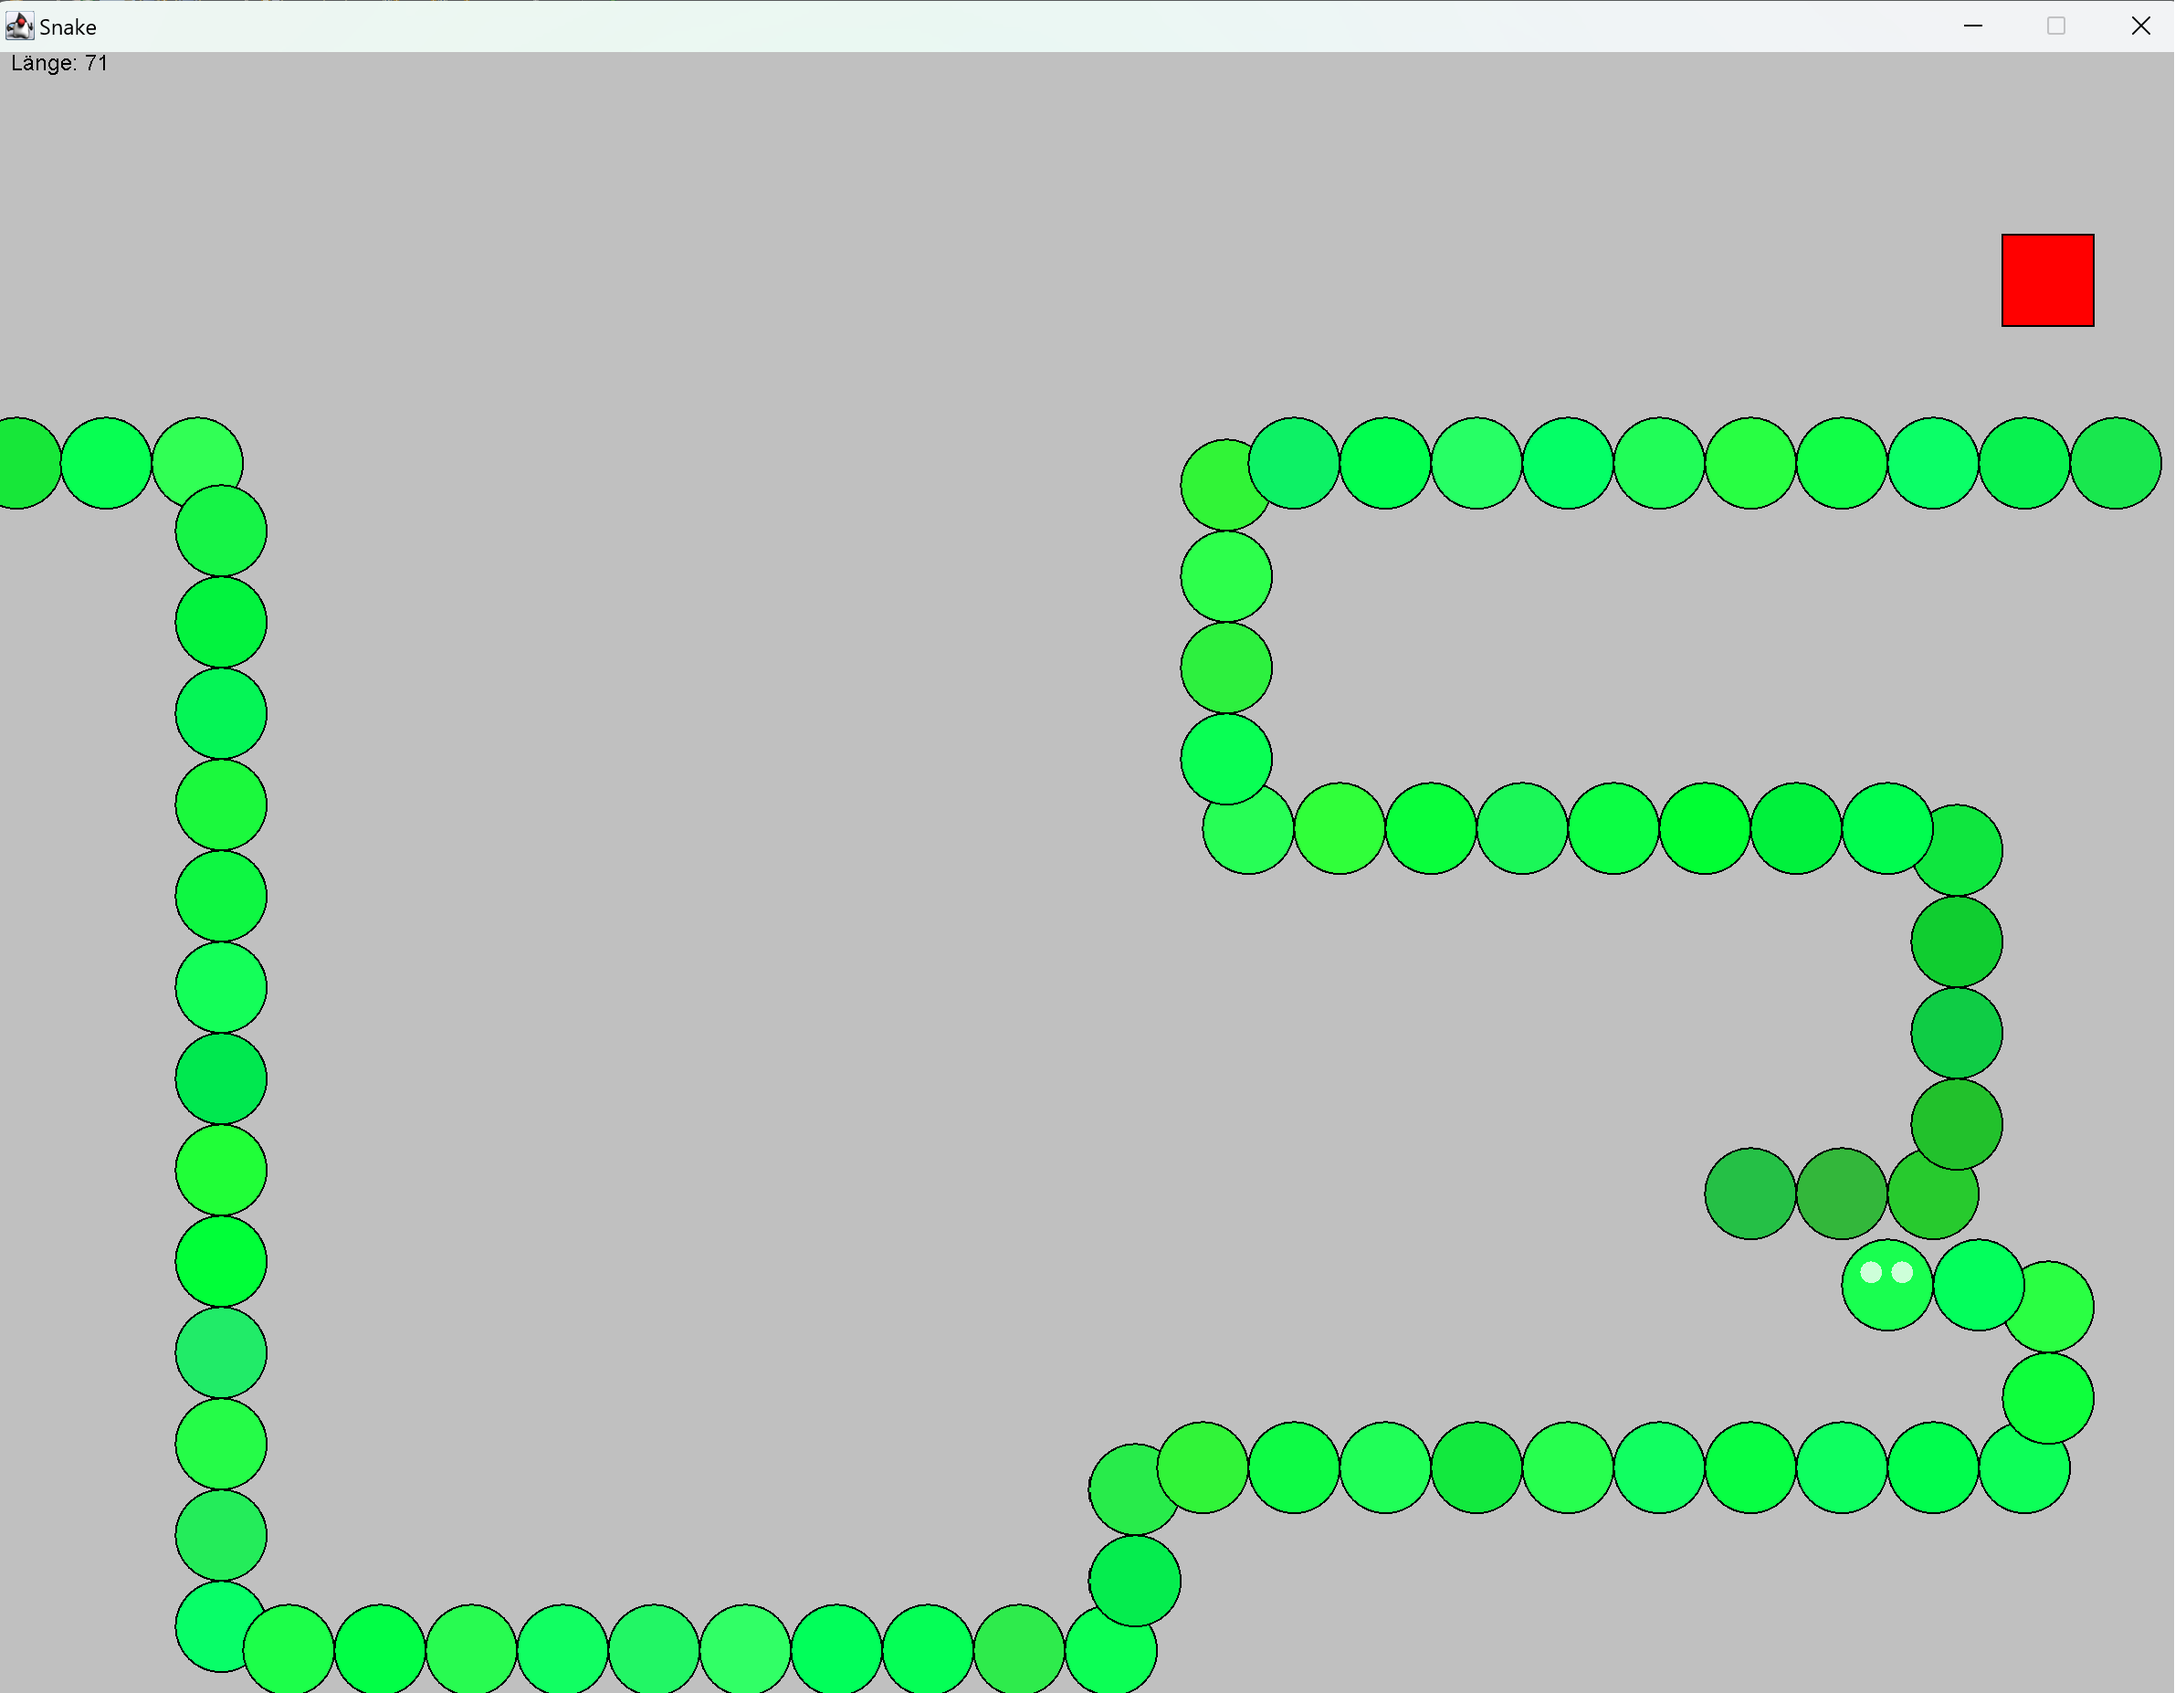
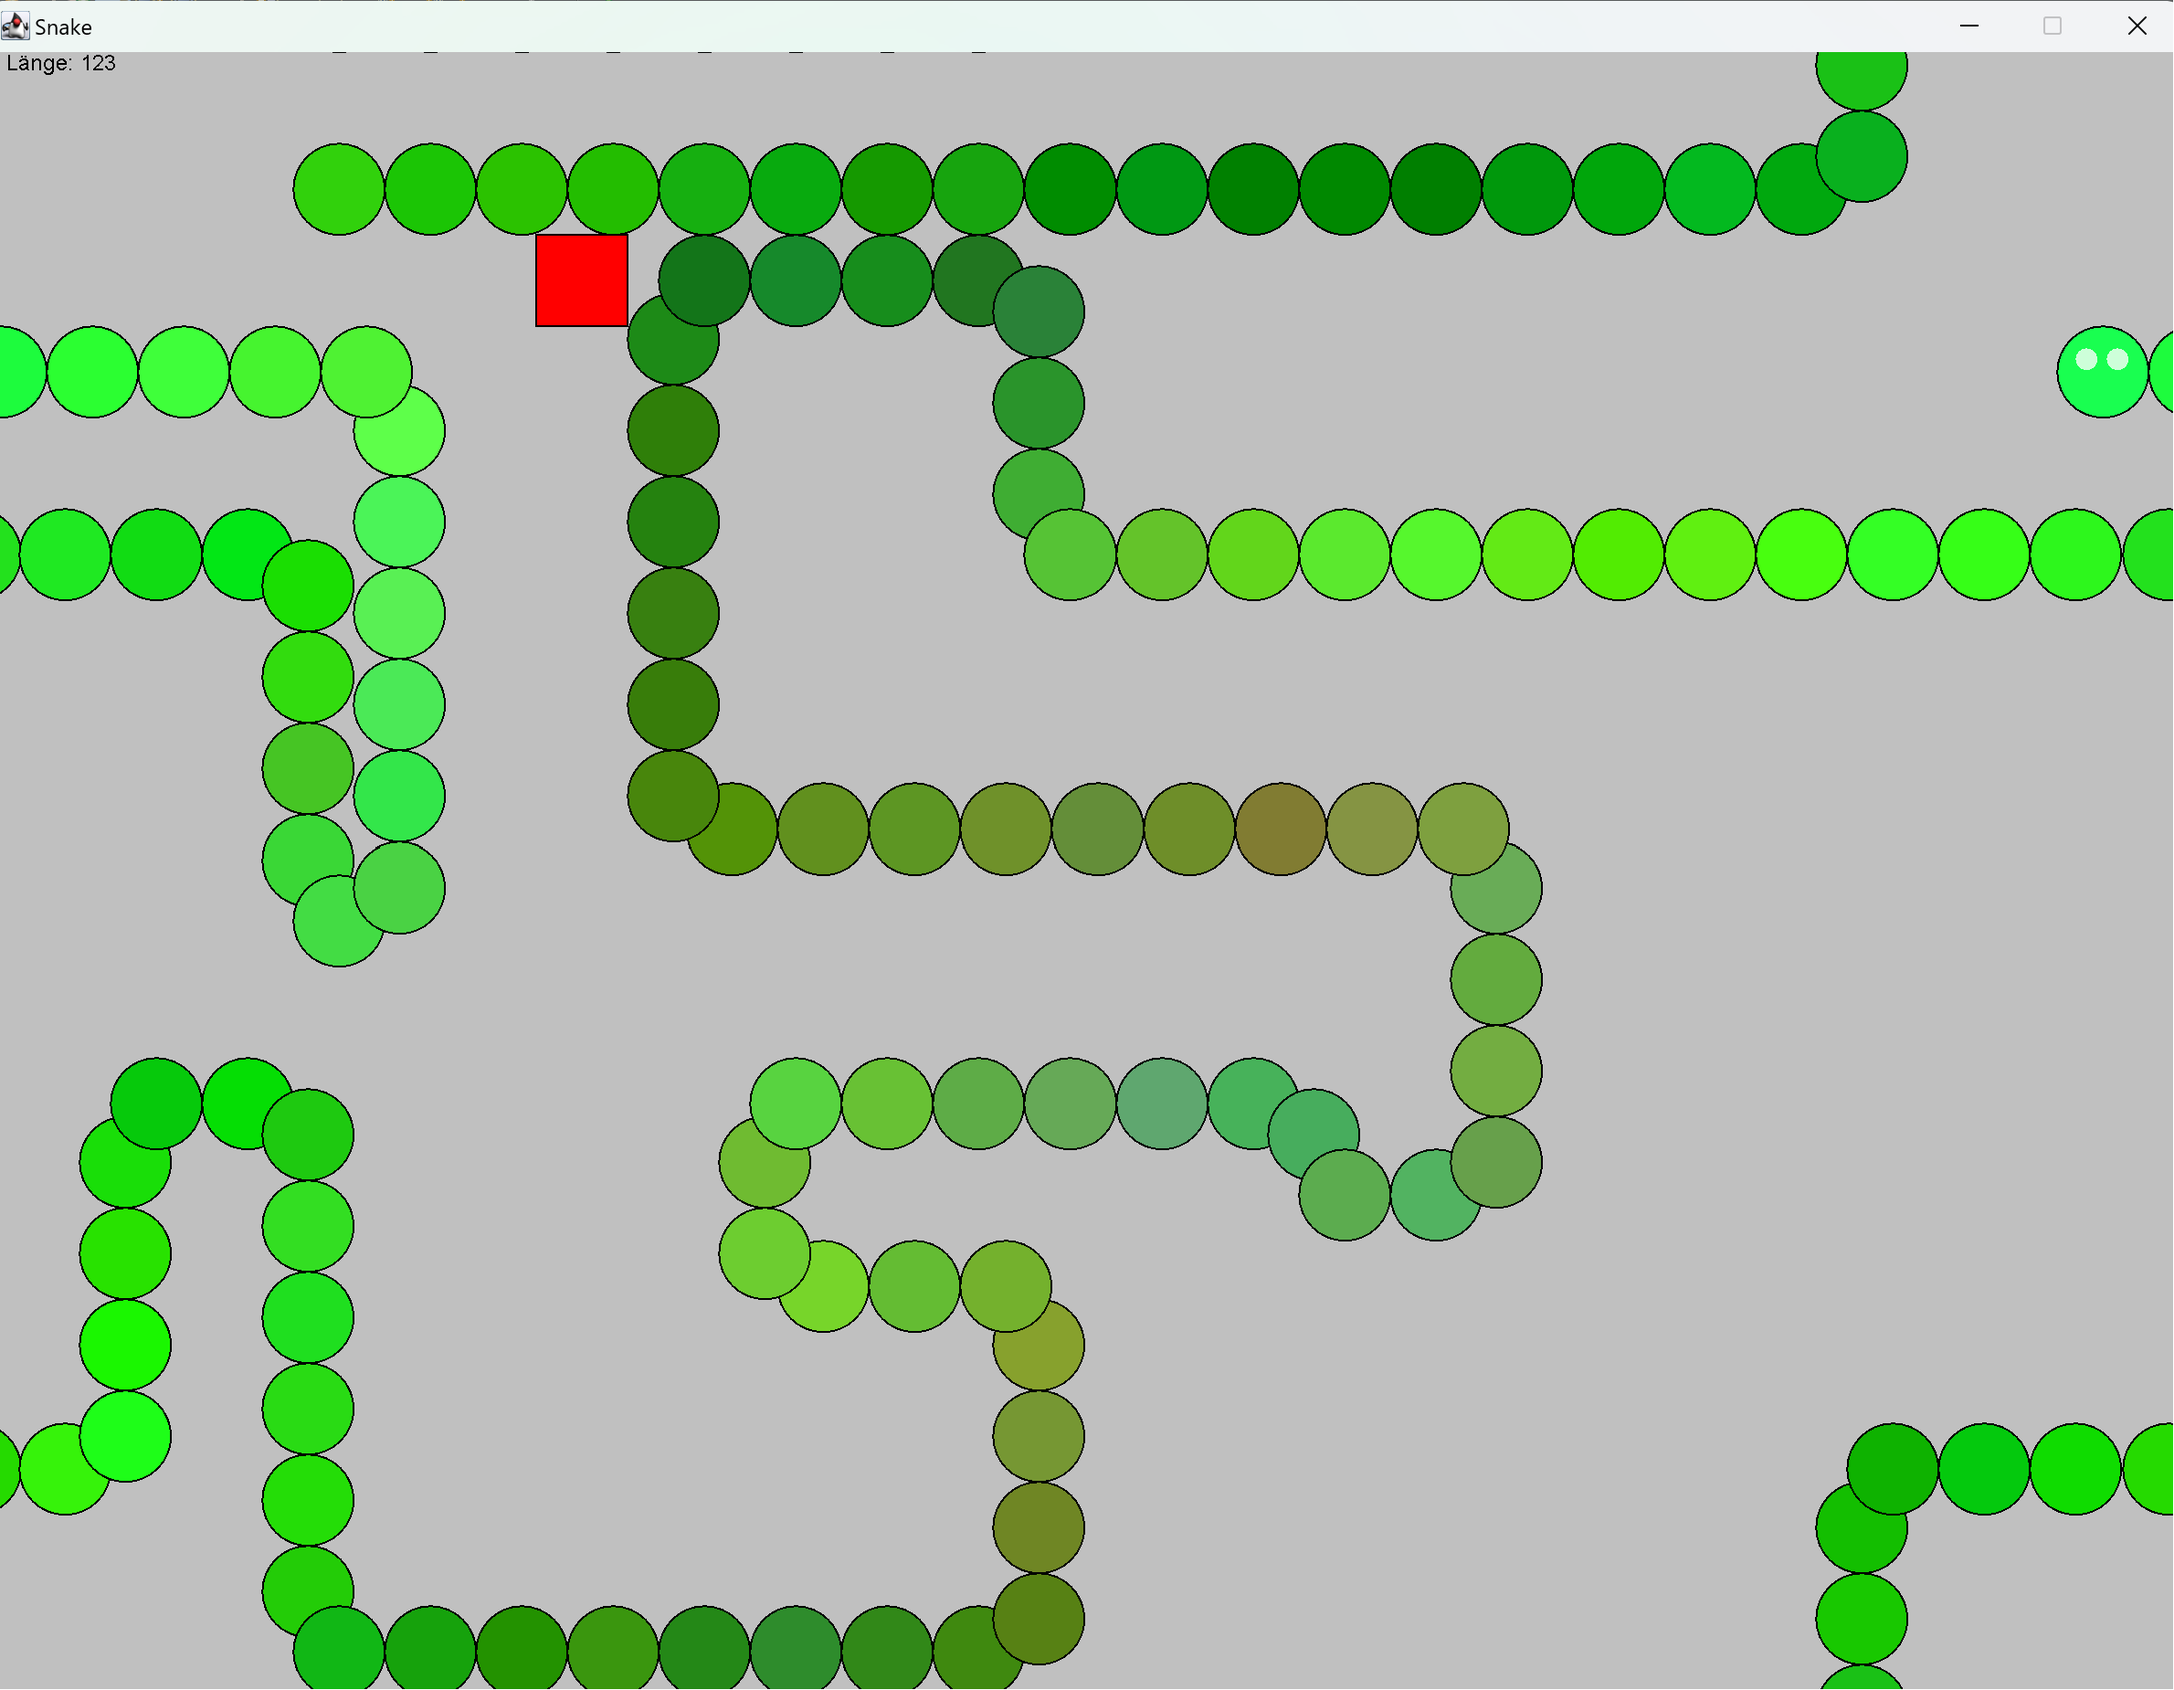
add smooth loops at edges

diff --git a/src/gamelogic/Snake.java b/src/gamelogic/Snake.java
@@ -105,17 +105,41 @@ public class Snake {
 		body.add(head);
 		int initalLength = 2;
 		for (int i = 0; i < initalLength; i++) {
-			body.add(new Bodypart(head));
+			body.add(new Bodypart(body.peekLast()));
 		}
 	}
 
 	public void draw(Graphics graphics) {
-		Iterator<Bodypart> it = body.descendingIterator();
-		while (it.hasNext()) { 
-			it.next().draw(graphics);
-        } 
+		// left border loop
+		graphics.translate(-Main.SCREEN_WIDTH, 0);
+		drawSnake(graphics);
+		graphics.translate(Main.SCREEN_WIDTH, 0);
 		
-		// draw head
+		// right border loop
+		graphics.translate(Main.SCREEN_WIDTH, 0);
+		drawSnake(graphics);
+		graphics.translate(-Main.SCREEN_WIDTH, 0);
+
+		// top border loop
+		graphics.translate(0, -Main.SCREEN_HEIGHT);
+		drawSnake(graphics);
+		graphics.translate(0, Main.SCREEN_HEIGHT);
+		
+		// top border looping
+		graphics.translate(0, Main.SCREEN_HEIGHT);
+		drawSnake(graphics);
+		graphics.translate(0, -Main.SCREEN_HEIGHT);
+		
+		// normal drawing in vies
+		drawSnake(graphics);
+	}
+	
+	private void drawSnake(Graphics graphics) {
+		// draw body
+		Iterator<Bodypart> it = body.descendingIterator();
+		it.forEachRemaining(part -> part.draw(graphics));
+		
+		// draw head: eyes
 		graphics.setColor(new Color(255, 255, 255, 200));
 		graphics.fillOval((int) (head.drawX +  5./24 * bodysize), (int) head.drawY + bodysize/4, bodysize/4, bodysize/4);
 		graphics.fillOval((int) (head.drawX + 13./24 * bodysize), (int) head.drawY + bodysize/4, bodysize/4, bodysize/4);
